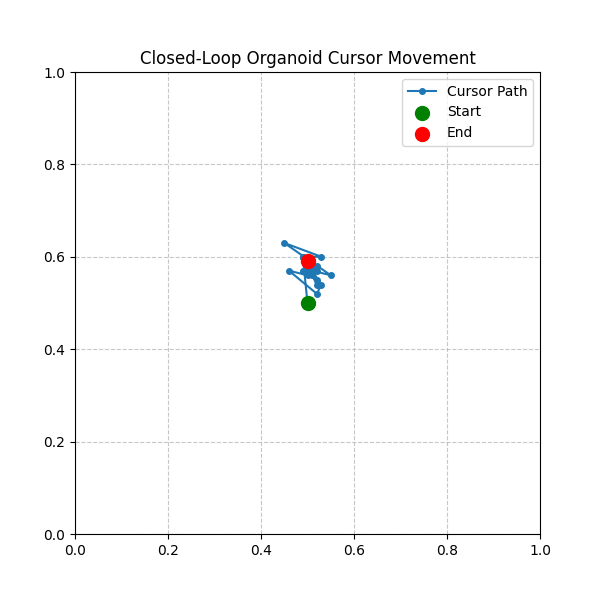
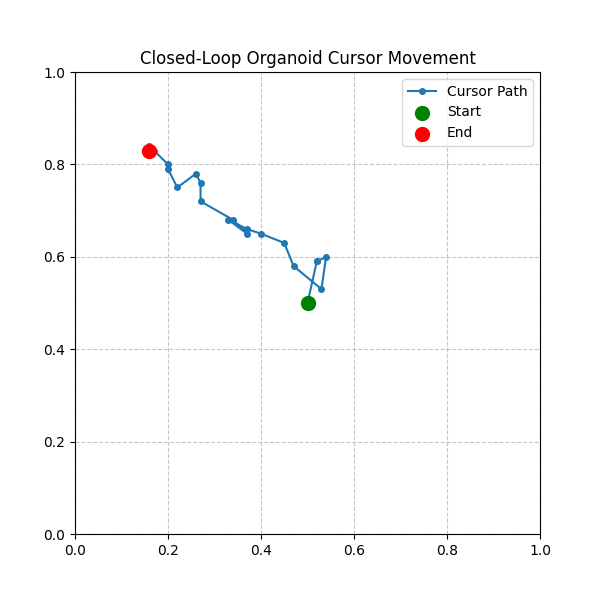
feat: Implement Goal-Directed Task logic and Distance-based rewards

Changed region(s): [[0.33, 0.3, 0.57, 0.51], [0.27, 0.27, 0.33, 0.33], [0.24, 0.24, 0.27, 0.27]]

diff --git a/environment/core.py b/environment/core.py
@@ -35,9 +35,12 @@ class OrganoidEnv(gym.Env):
         # Discrete(8): Stimulate one of 8 specific neuron subgroups
         self.action_space = spaces.Discrete(self.n_act_groups)
 
-        # --- Observation Space (Day 3) ---
-        # Box(0, 1, shape=(10,)): Normalized firing rates of 10 subgroups
-        self.observation_space = spaces.Box(low=0, high=1, shape=(self.n_obs_groups,), dtype=np.float32)
+        # --- Observation Space ---
+        # 10 (Fire rates) + 2 (Current Cursor [x,y]) + 2 (Target [x,y]) = 14 dimensions
+        self.observation_space = spaces.Box(low=0, high=1, shape=(self.n_obs_groups + 4,), dtype=np.float32)
+
+        # --- Target Task Setup ---
+        self.target_pos = np.array([0.8, 0.8]) # The goal for the organoid
 
         # --- Brian2 Network Setup ---
         self.network = None # Will be initialized in reset()
@@ -161,8 +164,9 @@ class OrganoidEnv(gym.Env):
         # Run initialization
         self.network.run(10*ms)
         
-        # Reset motor state
+        # Reset motor and task state
         self.cursor_pos = np.array([0.5, 0.5])
+        self.target_pos = np.random.rand(2) # Randomized target per episode
         
         return self._get_obs(), {}
 
@@ -184,32 +188,71 @@ class OrganoidEnv(gym.Env):
         # 5. Get Observation
         obs = self._get_obs()
         
-        # 6. Calculate Reward (Placeholder - to be defined by task)
-        reward = 0.0 
+        # 6. Calculate Reward (Distance-based for Target Task)
+        reward = self._calculate_reward()
         
         # 7. Update Motor Output (Move Cursor based on activity)
         self._update_motor_output()
         
         # 8. Apply Dopamine Learning
+        # We only apply learning if there is a reward (or penalty)
         apply_dopamine(self.synapses, reward)
         
         # 9. Check Done
-        terminated = False
+        dist = np.linalg.norm(self.cursor_pos - self.target_pos)
+        terminated = dist < 0.05 # Goal reached
         truncated = False
         info = {
             'cursor_pos': self.cursor_pos.tolist(),
+            'target_pos': self.target_pos.tolist(),
+            'distance': float(dist),
             'total_spikes': len(self.spike_mon.t)
         }
         
         return obs, reward, terminated, truncated, info
 
+    def _calculate_reward(self):
+        """
+        Rewards the organoid for moving closer to the target.
+        """
+        dist = np.linalg.norm(self.cursor_pos - self.target_pos)
+        
+        # Sparse or continuous reward
+        if dist < 0.1:
+            return 10.0 # High reward for being close
+        elif dist < 0.3:
+            return 1.0 # Moderate reward
+        
+        return 0.0 # No reward far away
+
+    def _get_obs(self):
+        """
+        Returns normalized spike rates + cursor pos + target pos.
+        """
+        current_t = self.network.t
+        window = 100*ms
+        
+        # 1. Neural Activity Features
+        if len(self.spike_mon.t) > 0:
+            recent_spikes_idx = self.spike_mon.i[self.spike_mon.t > current_t - window]
+        else:
+            recent_spikes_idx = []
+        
+        obs_group_size = self.n_neurons // self.n_obs_groups
+        counts, _ = np.histogram(recent_spikes_idx, bins=self.n_obs_groups, range=(0, self.n_neurons))
+        
+        max_spikes = obs_group_size * 20 
+        neural_obs = (counts / max_spikes).astype(np.float32)
+        neural_obs = np.clip(neural_obs, 0, 1) 
+        
+        # 2. task State Features
+        task_obs = np.concatenate([self.cursor_pos, self.target_pos]).astype(np.float32)
+        
+        return np.concatenate([neural_obs, task_obs])
+        
     def _update_motor_output(self):
         """
         Translates activity in motor neurons (900-1000) into cursor movement.
-        Neurons 900-925: Up
-        Neurons 926-950: Down
-        Neurons 951-975: Left
-        Neurons 976-1000: Right
         """
         current_t = self.network.t
         window = 100*ms
@@ -222,7 +265,6 @@ class OrganoidEnv(gym.Env):
             motor_indices = []
             
         # Count activity per quadrant
-        quad_size = (self.n_neurons - self.output_neuron_start) // 4
         up = np.sum((motor_indices >= 900) & (motor_indices < 925))
         down = np.sum((motor_indices >= 925) & (motor_indices < 950))
         left = np.sum((motor_indices >= 950) & (motor_indices < 975))
@@ -249,27 +291,6 @@ class OrganoidEnv(gym.Env):
         if end_idx <= self.n_neurons:
              # Stimulate this subgroup
              self.neurons.I[start_idx:end_idx] += 20.0 # Strong current injection
-             
-    def _get_obs(self):
-        """
-        Returns normalized spike rates for observations.
-        """
-        current_t = self.network.t
-        window = 100*ms
-        
-        if len(self.spike_mon.t) > 0:
-            recent_spikes_idx = self.spike_mon.i[self.spike_mon.t > current_t - window]
-        else:
-            recent_spikes_idx = []
-        
-        obs_group_size = self.n_neurons // self.n_obs_groups
-        counts, _ = np.histogram(recent_spikes_idx, bins=self.n_obs_groups, range=(0, self.n_neurons))
-        
-        max_spikes = obs_group_size * 20 
-        obs = counts / max_spikes
-        obs = np.clip(obs, 0, 1) 
-        
-        return obs.astype(np.float32)
 
     def render(self):
         pass
